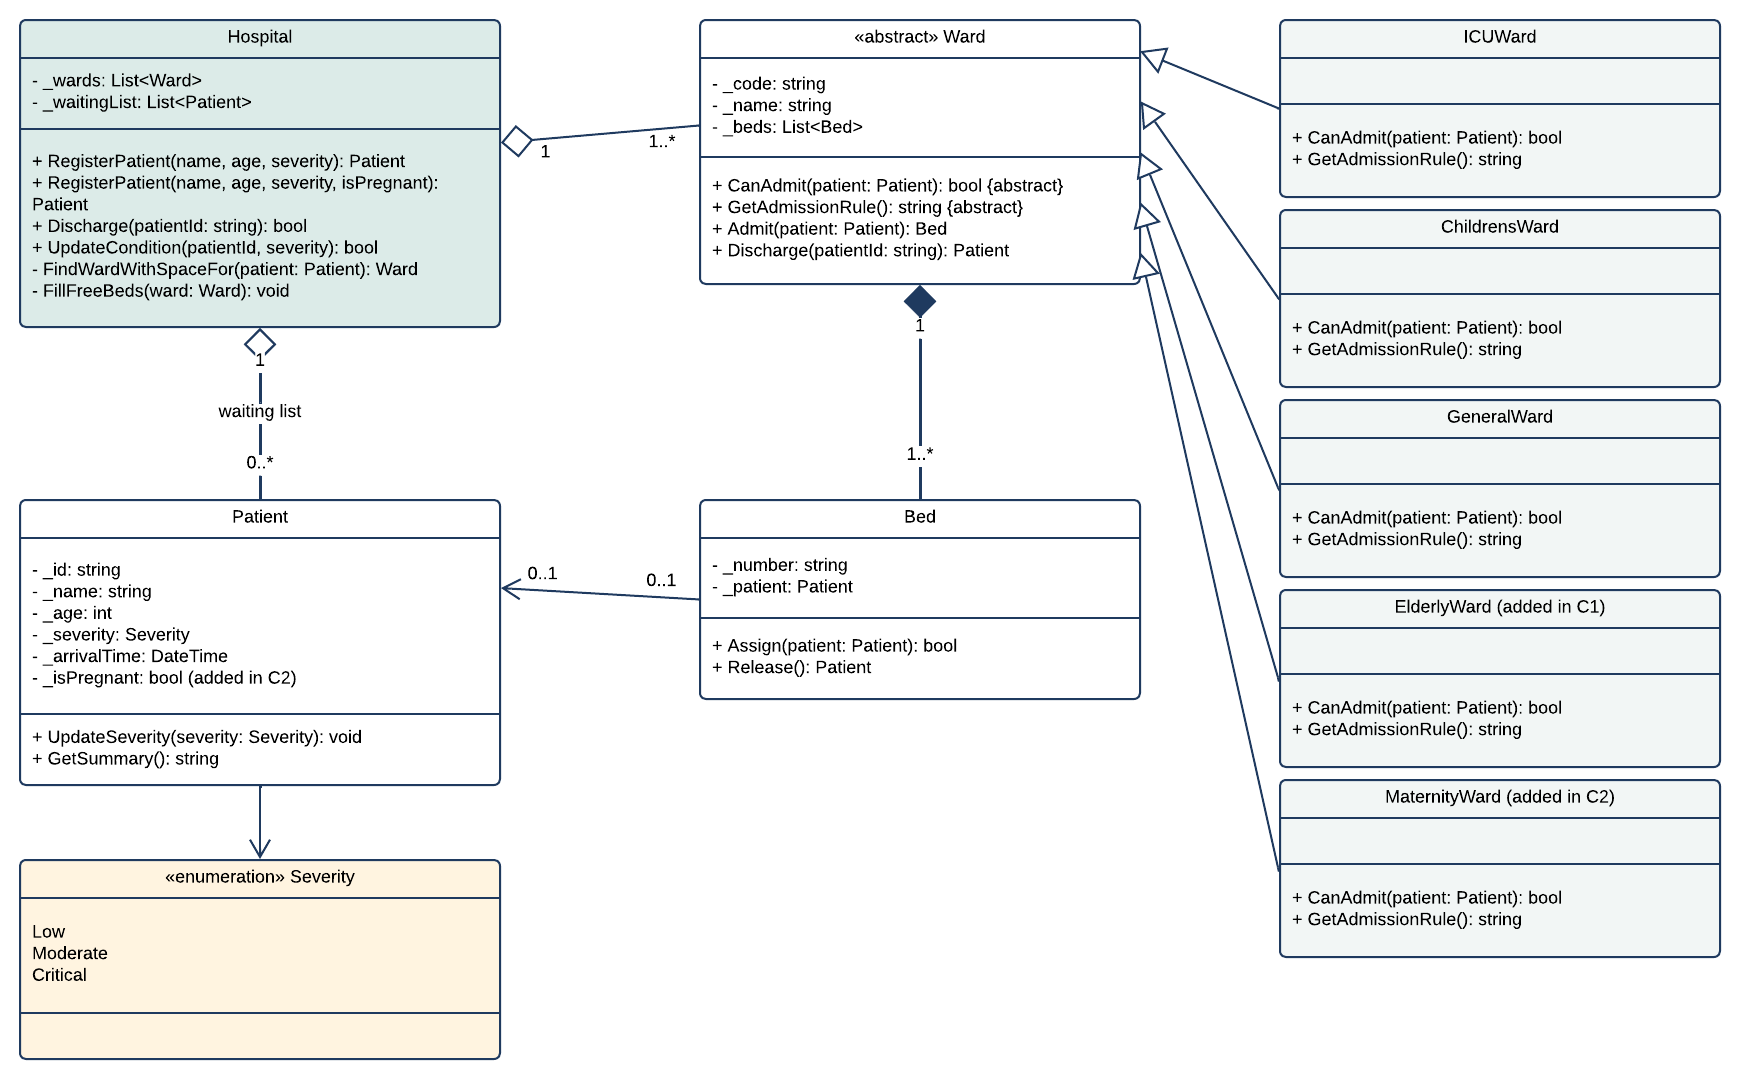
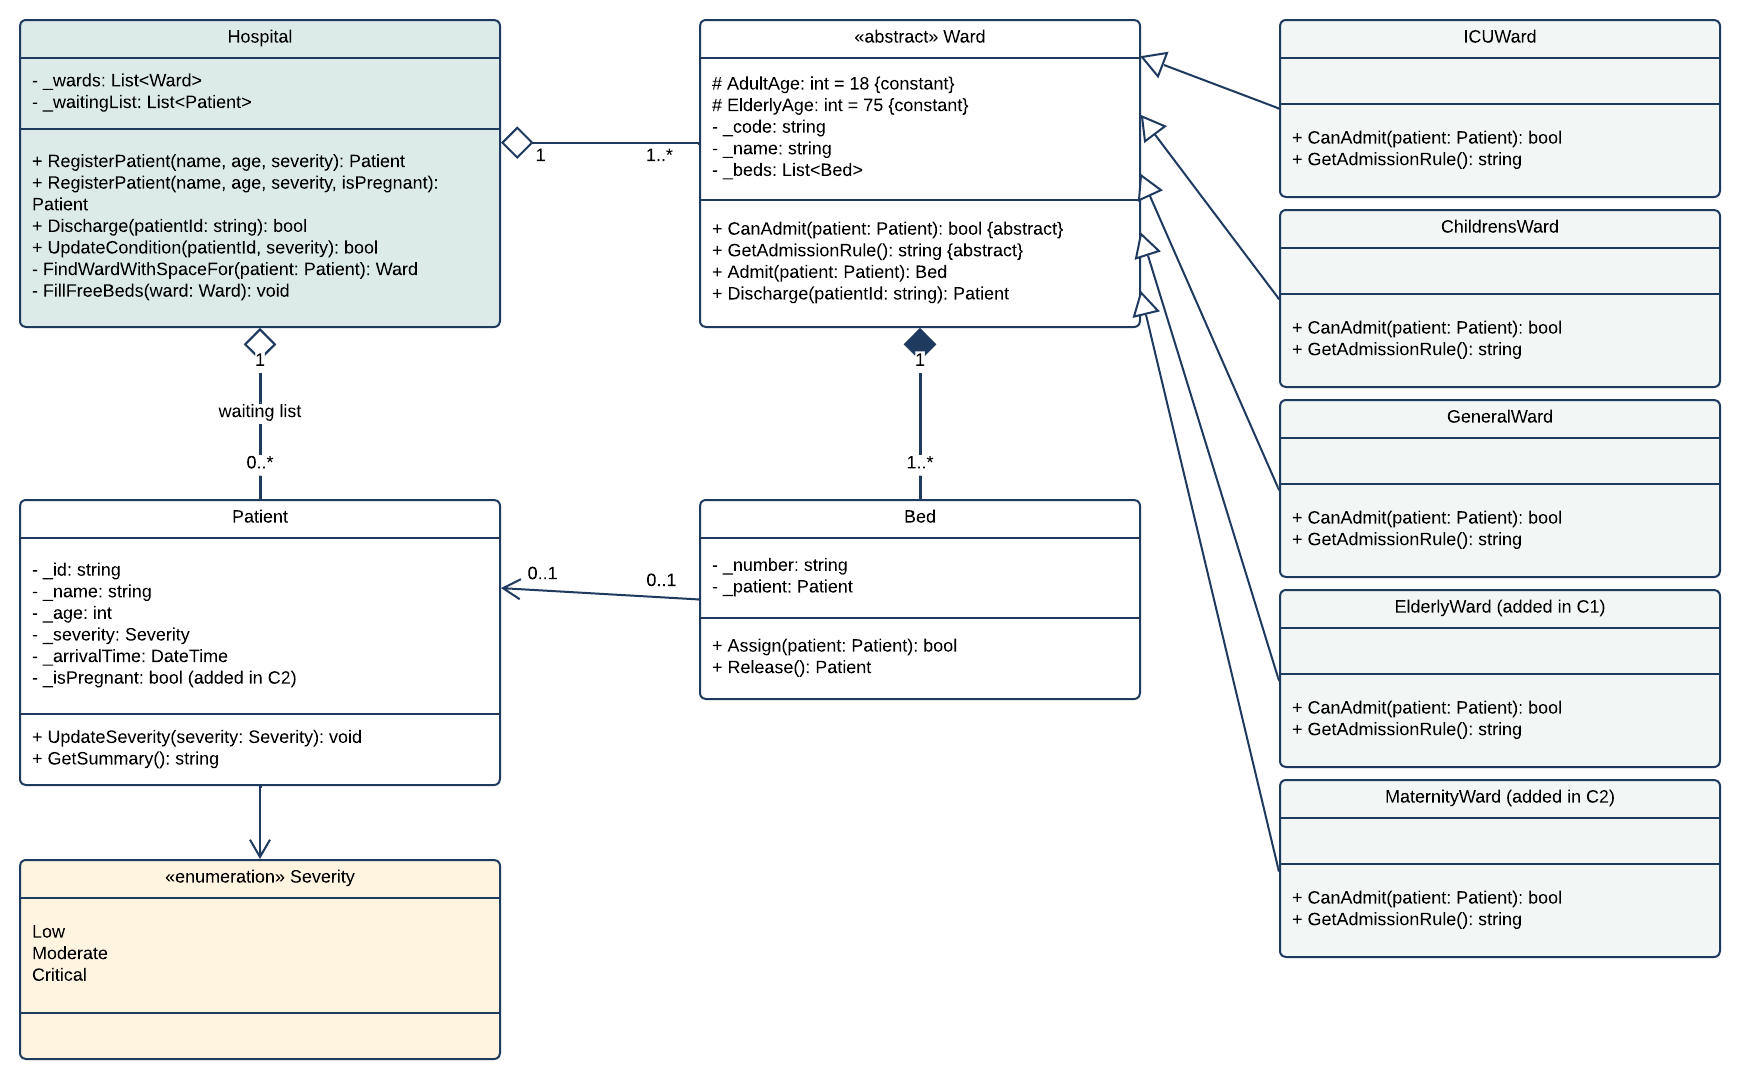
README files: academic terms (inheritance-based design, conditional design), thesis, refinement results and updated class diagram

Changed region(s): [[0.2793, 0.0611, 0.6207, 0.3361], [0.6517, 0.0306, 0.7138, 0.6417]]

diff --git a/README.md b/README.md
@@ -11,19 +11,19 @@ Patient Management is a hospital program I wrote earlier in the unit. When a pat
 
 There are two common ways to write the code that makes this choice:
 
-* **The if/else version:** one `Ward` class with a list of if/else checks. If this is Intensive Care, use this rule, otherwise if it is the Children's Ward, use that rule, and so on.
-* **The class-per-ward version:** every kind of ward is its own class that holds its own rule. This uses the abstract classes, inheritance and polymorphism we learnt in the unit.
+* **The conditional design:** one concrete `Ward` class stores a type code (a `WardType` enumeration value), and `CanAdmit` uses if/else statements on it to select the rule.
+* **The inheritance-based design:** an abstract `Ward` class declares `CanAdmit` and `GetAdmissionRule` as abstract methods, and each kind of ward is a subclass that overrides them. The `Hospital` works only with the abstract type, so each call runs the rule of the actual subclass (polymorphism).
 
-**Research question:** How does designing with abstraction, inheritance and polymorphism affect how easily a program can be extended and tested, compared with a design built on an enum and if/else statements?
+**Thesis:** applying inheritance, through an abstract base class with one subclass for each kind of ward, makes the program easier and safer to extend than a conditional design.
 
-**In simple terms:** when the hospital changes, which way of writing the code is easier and safer to update?
+**Research question:** How does applying inheritance and polymorphism affect how easily and safely a program can be extended and tested, compared with a conditional design based on an enumeration and if/else statements?
 
-## The two versions
+## The two designs
 
 The same admission rules, written both ways (shortened):
 
 ```csharp
-// If/else version: one Ward class
+// Conditional design: one Ward class
 bool CanAdmit(Patient p)
 {
   if (_type == WardType.ICU)
@@ -37,7 +37,7 @@ bool CanAdmit(Patient p)
 ```
 
 ```csharp
-// Class-per-ward version: one class for each kind of ward
+// Inheritance-based design: one class for each kind of ward
 class ICUWard : Ward
 {
   override bool CanAdmit(Patient p)
@@ -45,22 +45,22 @@ class ICUWard : Ward
     return p.Severity == Severity.Critical;
   }
 }
-// ChildrensWard and GeneralWard are separate classes with their own rule
+// ChildrensWard and GeneralWard are also subclasses of Ward with their own rule
 ```
 
-**The class-per-ward version** (folder `version-B-polymorphic`) is the original program. `Ward` is an abstract class that holds what every ward shares, such as the beds, and says every kind of ward must provide its own `CanAdmit` rule. The `Hospital` asks each ward "can you take this patient?" without checking what kind of ward it is.
+**The inheritance-based design** (folder `version-B-polymorphic`) is the original program. `Ward` is an abstract class that holds what every ward shares, such as the beds, and says every kind of ward must provide its own `CanAdmit` rule. The `Hospital` asks each ward "can you take this patient?" without checking what kind of ward it is.
 
-![Class diagram of the class-per-ward version](docs/class-diagram-version-B.png)
+![Class diagram of the inheritance-based design](docs/class-diagram-version-B.png)
 
-**The if/else version** (folder `version-A-flat`) does exactly the same job with one ordinary `Ward` class that stores its type in a `WardType` enum. Everything else is the same, so the only difference is where the rules live. Before any change, both versions printed identical output on every test.
+**The conditional design** (folder `version-A-flat`) does exactly the same job with one ordinary `Ward` class that stores its type in a `WardType` enum. Everything else is the same, so the only difference is where the rules live. Before any change, both designs printed identical output on every test.
 
-![Class diagram of the if/else version](docs/class-diagram-version-A.png)
+![Class diagram of the conditional design](docs/class-diagram-version-A.png)
 
 The diagrams can also be opened in [Lucidchart](https://lucid.app/lucidchart/c43ebfbf-2a3f-425a-a625-0f350c25f852/edit?invitationId=inv_e427f615-a624-44fc-bdd2-e396cd70c8ab) (view only).
 
 ## The four changes
 
-I made the same four changes to both versions. In the commit messages they are called C1 to C4.
+I made the same four changes to both designs, then refined the inheritance-based design. In the commit messages they are called C1 to C4.
 
 | Change | What it tests |
 |---|---|
@@ -71,29 +71,34 @@ I made the same four changes to both versions. In the commit messages they are c
 
 ## Results
 
-After every change both versions passed all ten tests and printed identical output. This is what happened in each change:
+After every change both designs passed all ten tests and printed identical output. This is what happened in each change:
 
-| Change | If/else version | Class-per-ward version | Easier |
+| Change | Conditional design | Inheritance-based design | Handled better by |
 |---|---|---|:---:|
-| **1. Add an Elderly Ward** | Had to open the existing Ward class and add a new branch to it. | Wrote one new class and one line to register it. No existing code was touched. | **Class-per-ward** |
-| **1. (first attempt)** | An 80 year old was sent to a General Ward. Only a test caught it. | The same mistake, caught the same way. | **Neither** |
-| **2. Add a Maternity Ward** | Adding the new patient information took the same work in both versions. The new rules all went into one file. | Adding the new patient information took the same work in both versions. The new rules touched four ward classes, because three other wards had to exclude pregnant patients. | **If/else** |
-| **3. Raise the Children's Ward age limit to 18** | One file. All the rules are in one place. | Two ward classes had to change together. | **If/else** |
-| **4. Add a ward but forget its rule** | The program ran with no warning. The new ward quietly admitted nobody. | The program would not compile until the rule was written. The compiler named what was missing. | **Class-per-ward** |
+| **1. Add an Elderly Ward** | The existing Ward class had to be modified: a new branch in two methods and a new enumeration value. | Added as a new subclass plus one line to register it. No existing class was modified. | **Inheritance** |
+| **1. (first attempt)** | An 80 year old was sent to a General Ward. The compiler did not detect it; a test did. | The same error, detected the same way. | **Neither** |
+| **2. Add a Maternity Ward** | Storing the new patient information took the same work in both designs. The new rule was added in one class. | Storing the new patient information took the same work in both designs. Four ward subclasses changed, because three existing wards had to exclude pregnant patients. | **Conditional** |
+| **3. Raise the Children's Ward age limit to 18** | All rules are in one method, so one class changed. | The limit was repeated in two subclasses, so both had to change together. | **Conditional** |
+| **3. (after refinement)** | Moving the adult age limit needed 4 lines: two rules and two descriptions. | The limit is a protected constant in the abstract Ward class, so the same move needed 1 line. | **Inheritance** |
+| **4. Add a ward but omit its rule** | Compiled with no warning. The new ward silently admitted no patients. | Did not compile. The compiler reported that the subclass does not implement the abstract methods. | **Inheritance** |
+
+The inheritance-based design handled three of the six outcomes better, the conditional design two, and one affected both equally.
 
 What this means:
 
-* **New wards are safer to add when each ward has its own class,** because old code is not touched.
-* **Only the class-per-ward version catches a missing rule.** The compiler refuses to build it, so the mistake is found before the program can run.
-* **Rules that depend on each other are easier to change in one place,** which suits the if/else version.
-* **Neither design helps when new information is needed.** Storing whether a patient is pregnant took the same work in both.
-* **Tests caught what the design could not.** Neither compiler noticed that the first Elderly Ward rule overlapped with the General Ward. Only a test did.
+* **Inheritance supports extension without modifying existing classes.** A new ward is a new subclass, so code that already works stays unchanged.
+* **Abstract methods let the compiler enforce the design.** A subclass that leaves out its rule does not compile, so the error is found before the program runs. The conditional design gives no warning.
+* **The advantage of the conditional design was caused by repeated data.** The inheritance-based design first repeated the shared age limits in several subclasses. After they were moved into the abstract `Ward` class as protected constants (`AdultAge`, `ElderlyAge`), moving a limit took 1 line against 4 in the conditional design. Named constants would also help the conditional design, so this shows where the extra edits came from.
+* **New data is independent of the class design.** Storing whether a patient is pregnant took the same work in both.
+* **Inheritance cannot confirm that a rule is correct.** Neither compiler noticed that the first Elderly Ward rule overlapped with the General Ward. Only a test did.
+
+**Conclusion:** the results support the thesis. Inheritance is most effective when the base class holds everything the subclasses share and each subclass holds only what makes it different.
 
 ### Detailed numbers
 
 Files with code changes, and lines of code added and removed (comments and blank lines are not counted):
 
-| Step | If/else version | Class-per-ward version |
+| Step | Conditional design | Inheritance-based design |
 |---|---|---|
 | 1. Add Elderly Ward | 3 files, +7 / -1 | 2 files, +14 / -0 |
 | 1. Fix overlap with General Ward | 1 file, +2 / -2 | 1 file, +2 / -2 |
@@ -101,19 +106,21 @@ Files with code changes, and lines of code added and removed (comments and blank
 | 2. Pregnancy information | 3 files, +30 / -6 | 3 files, +30 / -6 |
 | 2. Maternity rules | 3 files, +10 / -4 | 5 files, +17 / -3 |
 | 3. Children under 18 | 1 file, +4 / -4 | 2 files, +4 / -4 |
+| Refinement: shared age limits | not applied | 4 files, +8 / -6 |
+| Moving the adult age limit afterwards | 1 file, +4 / -4 | 1 file, +1 / -1 |
 
-These numbers are small, so they are best read together with the table above. They are also in [`results/measurements.csv`](results/measurements.csv), and the compiler output from Change 4 is in [`results/C4_forgotten_rule_output.txt`](results/C4_forgotten_rule_output.txt). The [results README](results/README.md) explains how to recount them.
+These numbers are small, so they are best read together with the table above. They are also in [`results/measurements.csv`](results/measurements.csv), the refinement check is in [`results/refinement_check.txt`](results/refinement_check.txt), and the compiler output from Change 4 is in [`results/C4_forgotten_rule_output.txt`](results/C4_forgotten_rule_output.txt). The [results README](results/README.md) explains how to recount them.
 
 ## Repository layout
 
 | Folder or file | What it holds |
 |---|---|
-| `version-B-polymorphic/` | The class-per-ward version |
-| `version-A-flat/` | The if/else version |
+| `version-B-polymorphic/` | The inheritance-based design |
+| `version-A-flat/` | The conditional design |
 | `tests/inputs/` | Ten scripted test runs. Each line is one answer typed into the menu |
 | `tests/expected/` | The output each test should print, with clock times replaced by `<TIME>` |
 | `results/` | The measurements and the compiler output from Change 4 |
-| `docs/` | Class diagrams of both versions |
+| `docs/` | Class diagrams of both designs |
 | `run_tests.sh` | Runs every test on Mac or Linux |
 | `run_tests.ps1` | Runs every test on Windows |
 
@@ -125,13 +132,13 @@ The commit history shows the steps in the order I did them. Start from the oldes
 
 1. Step 0: the program as it was before the research started
 2. Step 1: three small fixes, then the scripted tests and their expected output
-3. Step 2: the if/else version built, with identical output to the class-per-ward version on every test
-4. C1: the Elderly Ward. The first attempt failed a test in both versions, and the next commits show the fix
+3. Step 2: the conditional design built, with identical output to the inheritance-based design on every test
+4. C1: the Elderly Ward. The first attempt failed a test in both designs, and the next commits show the fix
 5. C2: the Maternity Ward
-6. C3: the Children's Ward age limit
+6. C3: the Children's Ward age limit, then the refinement that moves the shared age limits into the abstract Ward class
 7. C4: on the separate branch `c4-forgotten-rule`, so the mistake does not stay in the main program
 
-In the commit messages, "Version A" is the if/else version and "Version B" is the class-per-ward version. Each change has one commit for each version, so `git show <commit>` shows exactly what each design needed.
+In the commit messages, "Version A" is the conditional design and "Version B" is the inheritance-based design. Each change has one commit for each design, so `git show <commit>` shows exactly what each design needed.
 
 ## Running the tests
 
@@ -164,4 +171,4 @@ Choose option 9 to load the demo patients, then option 3 to discharge P001. A pa
 
 ## Limitations
 
-This is one small program and one developer, and lines of code are only a rough measure of effort. I built the if/else version myself, so I kept its rules inside the `Ward` class to make it as fair a comparison as I could. The ward map was checked by hand because the scripted tests cannot see a window.
+This is one small program and one developer, and lines of code are only a rough measure of effort. I built the conditional design myself, so I kept its rules inside the `Ward` class to make it as fair a comparison as I could. The ward map was checked by hand because the scripted tests cannot see a window.

diff --git a/results/README.md b/results/README.md
@@ -2,12 +2,12 @@
 
 ## measurements.csv
 
-For every change, this file records how much code each version needed:
+For every change, this file records how much code each design needed:
 
 * **files_with_code_changes**: files where at least one line of code changed. A file where only comments changed is not counted.
 * **code_lines_added** and **code_lines_removed**: lines added and removed, not counting comments or blank lines. A line that was edited counts as one removed and one added.
 
-Each change was made in two commits, one for each version, so each row comes from a single commit. In the commit messages and in this file, "A" is the if/else version and "B" is the class-per-ward version.
+Each change was made in two commits, one for each design, so each row comes from a single commit. In the commit messages and in this file, "A" is the conditional design and "B" is the inheritance-based design.
 
 ## How to recount a result
 
@@ -24,11 +24,15 @@ count() {
 count <commit> version-B-polymorphic
 ```
 
-For example, the commit "C2 rules (Version B)" gives `added: 17  removed: 3`, which matches the Maternity rules for the class-per-ward version.
+For example, the commit "C2 rules (Version B)" gives `added: 17  removed: 3`, which matches the Maternity rules for the inheritance-based design.
+
+## refinement_check.txt
+
+After Change 3, the shared age limits were moved into the abstract `Ward` class of the inheritance-based design. This file records how many lines it then took to move the adult age limit in each design (1 against 4), and shows that both designs still behaved the same.
 
 ## C4_forgotten_rule_output.txt
 
-The output from Change 4 (C4 in the commit messages), where a new ward was added to both versions without its rule. It shows the compiler output for each version and what the if/else version printed when it ran. The code for this experiment is on the `c4-forgotten-rule` branch.
+The output from Change 4 (C4 in the commit messages), where a new ward was added to both designs without its rule. It shows the compiler output for each design and what the conditional design printed when it ran. The code for this experiment is on the `c4-forgotten-rule` branch.
 
 ## Limits of these numbers
 

diff --git a/version-A-flat/README.md b/version-A-flat/README.md
@@ -1,6 +1,6 @@
-# The if/else version
+# The conditional design
 
-This version does exactly the same job as the class-per-ward version and prints exactly the same output on every test. I built it for the research so the two designs could be compared fairly.
+This version does exactly the same job as the inheritance-based design and prints exactly the same output on every test. I built it for the research so the two designs could be compared fairly.
 
 There are no ward subclasses. There is one `Ward` class, and each ward object stores a `WardType` value:
 
@@ -8,7 +8,7 @@ There are no ward subclasses. There is one `Ward` class, and each ward object st
 ICU, Children, General, Elderly, Maternity
 ```
 
-`CanAdmit` and `GetAdmissionRule` use if/else statements on that value to choose the rule. Everything else, including `Hospital`, the menu and the ward map, is the same as the class-per-ward version.
+`CanAdmit` and `GetAdmissionRule` use if/else statements on that value to choose the rule. Everything else, including `Hospital`, the menu and the ward map, is the same as the inheritance-based design.
 
 The main differences I found:
 
@@ -22,4 +22,4 @@ The main differences I found:
 dotnet run
 ```
 
-The menu is identical to the class-per-ward version. Option 9 loads demo patients and option 8 opens the SplashKit ward map.
+The menu is identical to the inheritance-based design. Option 9 loads demo patients and option 8 opens the SplashKit ward map.

diff --git a/version-B-polymorphic/README.md b/version-B-polymorphic/README.md
@@ -1,6 +1,6 @@
-# The class-per-ward version
+# The inheritance-based design
 
-This is my Patient Management program in its original design, with the three small fixes and Changes 1 to 3 from the research.
+This is my Patient Management program in its original design, with the three small fixes, Changes 1 to 3 and the refinement from the research.
 
 `Ward` is an abstract class. It holds everything every ward shares, such as the beds and admitting and discharging patients. It declares two abstract methods that every kind of ward must write for itself:
 
@@ -14,6 +14,8 @@ This is my Patient Management program in its original design, with the three sma
 | `ChildrensWard` | Under 18, not pregnant, not critical |
 | `GeneralWard` | 18 to 74, not pregnant, not critical |
 | `ElderlyWard` | 75 and over, not pregnant, not critical |
+
+The age limits that several wards share are kept once in `Ward` as protected constants, `AdultAge` (18) and `ElderlyAge` (75), so a limit is changed in one place.
 
 `Hospital` keeps all the wards in one `List<Ward>` and calls `CanAdmit` on each one without checking which kind it is. Adding a new kind of ward means writing one new class and adding one line in `Program.cs`. If a new ward class leaves out either method, the program does not build.
 

diff --git a/tests/README.md b/tests/README.md
@@ -2,7 +2,7 @@
 
 Each test is a text file in `inputs/`. Every line is one answer typed into the program's menu, in order. The test script runs the program with that input and compares what it prints with the matching file in `expected/`. Clock times change on every run, so they are replaced with `<TIME>` before comparing.
 
-Both versions of the program must pass every test, and they must print exactly the same output. That is how I checked the two versions behave the same before and after each change.
+Both designs of the program must pass every test, and they must print exactly the same output. That is how I checked the two versions behave the same before and after each change.
 
 | Test | What it checks | Added |
 |---|---|---|
@@ -27,4 +27,4 @@ From the top folder of the repository:
 ./run_tests.sh version-B-polymorphic      (Mac or Linux)
 ```
 
-`version-B-polymorphic` is the class-per-ward version. Replace it with `version-A-flat` to test the if/else version. Each should end with `10 passed, 0 failed`.
+`version-B-polymorphic` is the inheritance-based design. Replace it with `version-A-flat` to test the conditional design. Each should end with `10 passed, 0 failed`.
